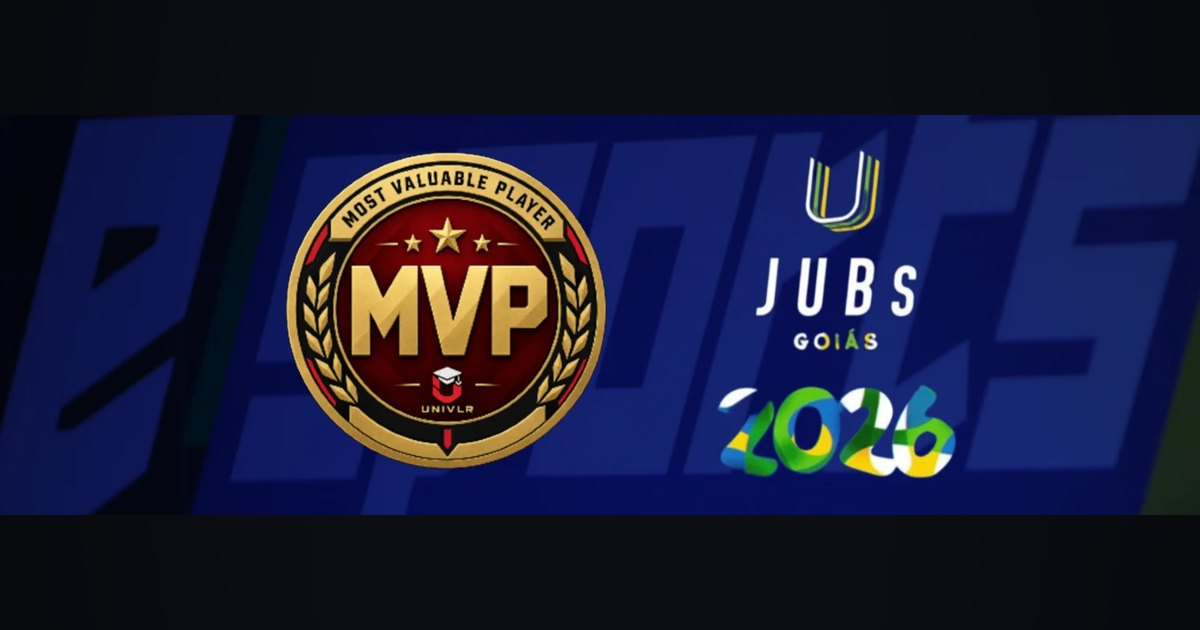
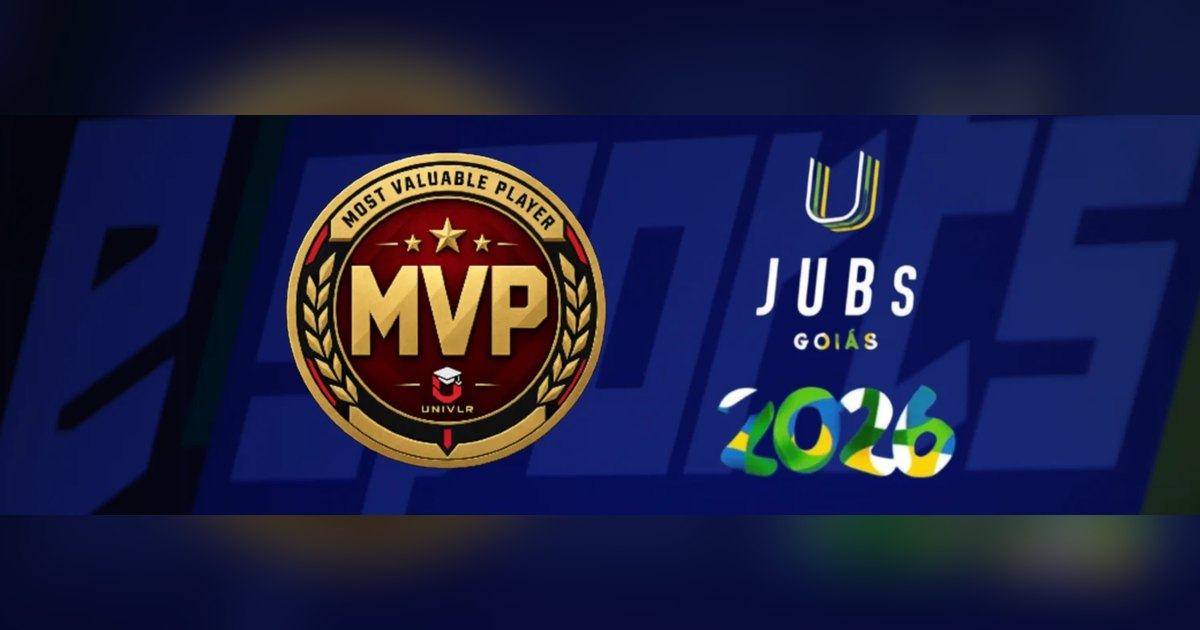
share: a sobra do card e a propria capa, nao o fundo da marca
Quando a capa nao cabe em 1,91:1 eu preenchia a sobra com
`fundo_da_marca()` - que e exatamente o chao do cartao GENERICO do
site. Arte pequena centrada naquele preto fazia o card da materia ler
como o generico, que e justamente o que ele existe para nao ser.

Agora a sobra e a propria capa ampliada, desfocada e escurecida: a cor
do card passa a ser a cor da materia, e a arte continua inteira por
cima. A previa do JUBS e 2:1, preenche a moldura e nao mudou.

diff --git a/scripts/build_share_images.py b/scripts/build_share_images.py
@@ -77,8 +77,18 @@ def cartao_da_capa(origem, destino):
         esq, topo = (capa.width - L) // 2, (capa.height - A) // 2
         cartao = capa.crop((esq, topo, esq + L, topo + A))
     else:
+        # O que preenche a sobra e a PROPRIA capa, ampliada e desfocada, e nao o
+        # fundo da marca: aquele e o chao do cartao generico do site, e uma arte
+        # pequena no meio dele fazia o card da materia ler como o generico -
+        # justamente o que ele existe para nao ser. Assim a cor do card e a cor
+        # da capa, e a arte continua inteira por cima.
+        cartao = capa.resize((round(capa.width * preencher), round(capa.height * preencher)), Image.LANCZOS)
+        esq, topo = (cartao.width - L) // 2, (cartao.height - A) // 2
+        cartao = cartao.crop((esq, topo, esq + L, topo + A))
+        cartao = cartao.filter(ImageFilter.GaussianBlur(28))
+        cartao = Image.blend(cartao, Image.new("RGB", (L, A), FUNDO), 0.45)
+
         arte = capa.resize((round(capa.width * caber), round(capa.height * caber)), Image.LANCZOS)
-        cartao = fundo_da_marca()
         cartao.paste(arte, ((L - arte.width) // 2, (A - arte.height) // 2))
 
     cartao.save(destino, "JPEG", quality=86, optimize=True)
